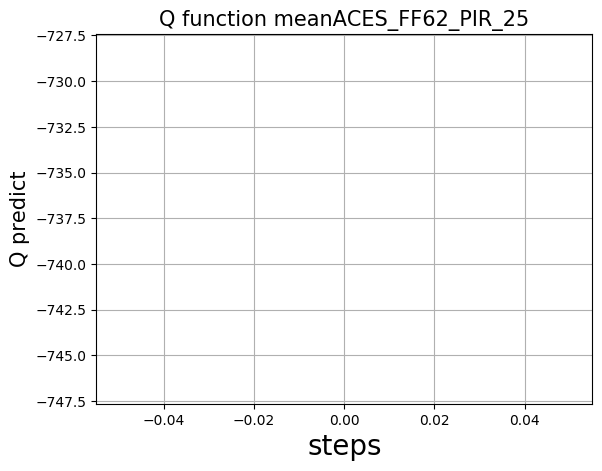
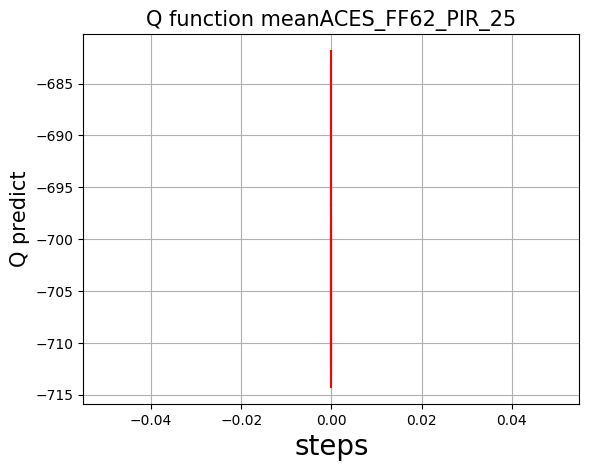
updates

Changed region(s): [[0.0, 0.0, 1.0, 0.9809], [0.0, 0.3864, 0.0306, 0.4161]]

diff --git a/plot.py b/plot.py
@@ -98,12 +98,12 @@ def close_event():
 
 path = "FF62_demo_sensor.txt"
 fig, ax = plt.subplots(1)
-fig.set_size_inches(11, 10)
+fig.set_size_inches(7, 6)
 file_1 = "Black Pible Node - Reinforcement Learning Demonstrator"
 file = ""
 
 plt.ion()
-for step in range(0,100):
+for step in range(0,10000):
     Time_hist_1, Volt_hist_1, Perf_hist_1, PIR_hist_1, Light_hist_1 = extract(path)
     Time_hist_2 = []; Volt_hist_2 = []; Perf_hist_2 = []; PIR_hist_2 = []; Light_hist_2 = [];
 
